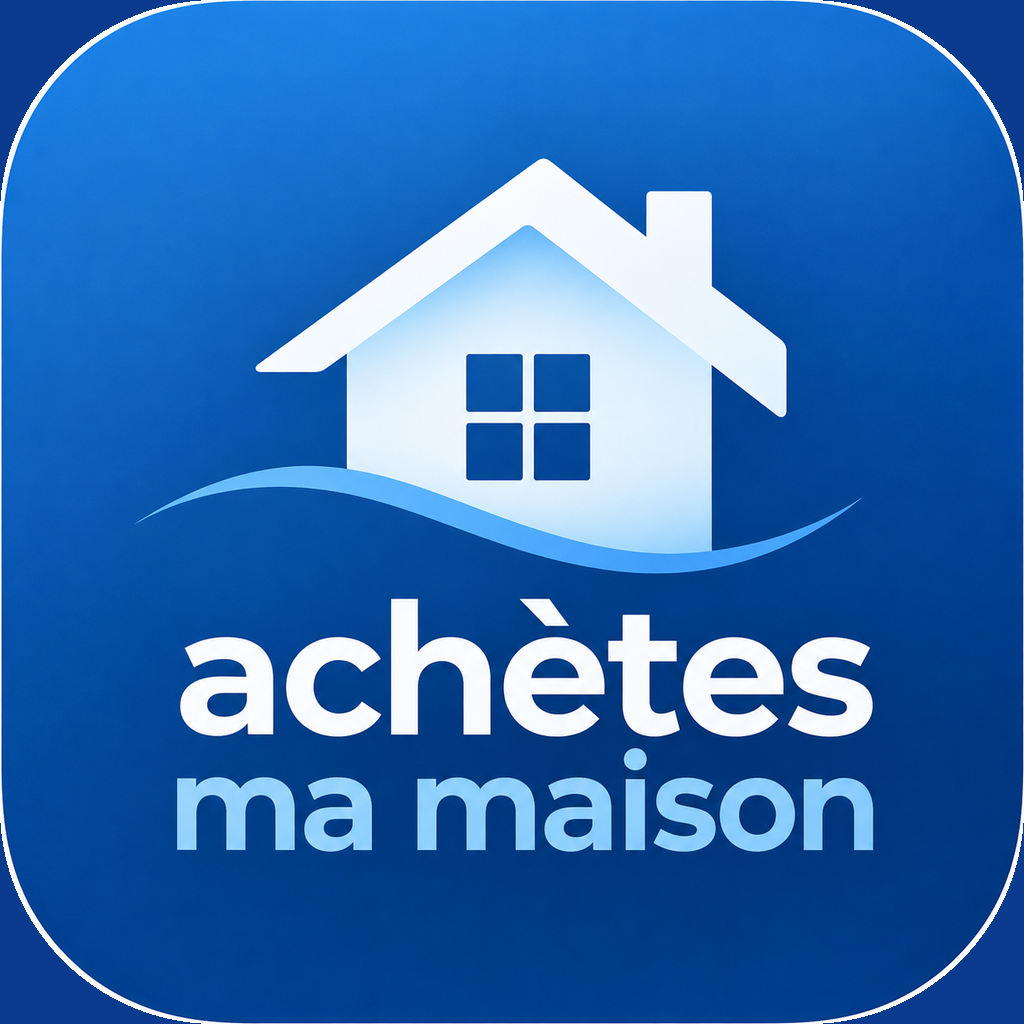
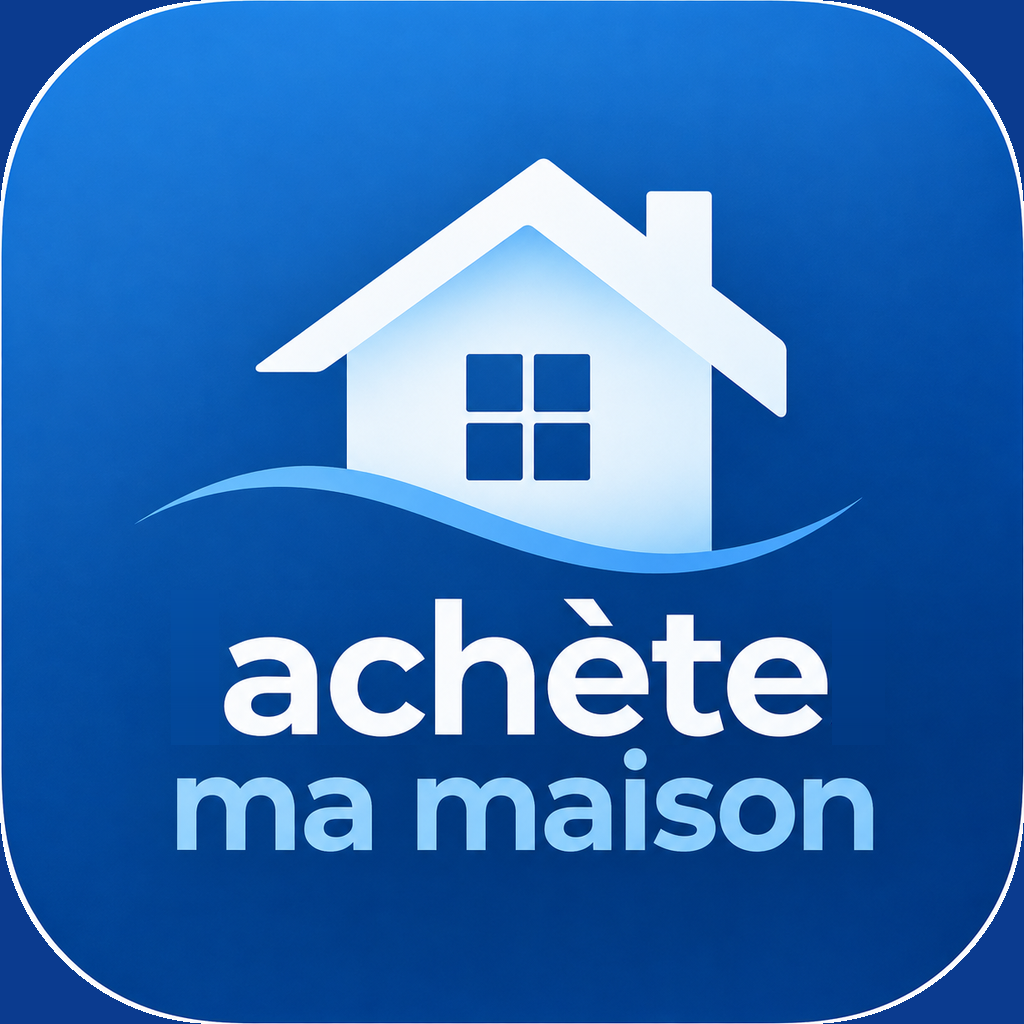
## Renommage en « Achète ma maison » - Tous les textes de l'app et du serveur utilisent désormais **« Achète ma maison »** (nom de l'app, écran d'accueil, inscription, Pack, annonce, confidentialité, PDF, e-mails, nom de l'expéditeur, noms des fichiers exportés). Le sous-titre de l'accueil indique a
- Next Action Items:
  - **Vérification production**: Dis-moi quand le redéploiement est fait, je contrôle que les 97 départements répondent sur le serveur publié
  - **Distances piétonnes**: Ajoute le temps à pied réel vers l'école, la boulangerie et l'arrêt de bus les plus proches
  - **Carte dans le PDF**: Insère l'orthophoto IGN avec la parcelle en tête de la section environnement du rapport
  - **Comparatif avant/après**: Montre un curseur glissant avant/après sur chaque photo retouchée pour que le vendeur mesure le gain

Note :
- Once you deploy your app to production, you can generate iOS and Android builds. Post which, you can publish your app to App/Play store.
- For iOS builds: you need an Apple developer account. Upon logging in, you can generate a build, submit it to TestFlight, and test the app on a real iOS device.
- For Android builds: we provide .APK and .AAB files for your application, which enable you to test your app on a real Android device.
- Your deployed app is also accessible on Expo Go via a QR code on the deployment panel.
- If you make any changes to the code via the agent, redeploy the application and generate new builds to reflect the latest code changes (redeploy comes at no additional cost).

Emergent-Commit-Key: c5ee53f8709132edf46c85c5874ab99fefe8d077cc66d89e8aa4d65a0cbb8654

Changed region(s): [[0.1562, 0.5625, 0.875, 0.7188]]

diff --git a/frontend/app/index.tsx b/frontend/app/index.tsx
@@ -50,7 +50,7 @@ export default function HomeScreen() {
     <View style={styles.screen} testID="home-screen">
       <ScreenHeader
         title="Mes biens"
-        subtitle="Achètes ma maison · Estimations · Centre-Val de Loire"
+        subtitle="Achète ma maison · Estimations · France entière"
         leading={<BrandLogo size={40} wordmark="none" testID="home-logo" />}
         right={
           <View style={{ flexDirection: "row", gap: spacing.sm }}>
@@ -86,7 +86,7 @@ export default function HomeScreen() {
           <Image source={{ uri: EMPTY_IMAGE }} style={styles.emptyImage} contentFit="cover" transition={300} />
           <Text style={styles.emptyTitle}>Aucune estimation pour le moment</Text>
           <Text style={styles.emptyText}>
-            Renseignez l’adresse et les caractéristiques de votre bien : Achètes ma maison calcule une fourchette de valeur à
+            Renseignez l’adresse et les caractéristiques de votre bien : Achète ma maison calcule une fourchette de valeur à
             partir des ventes réelles enregistrées autour de chez vous.
           </Text>
           <PrimaryButton title="Nouvelle estimation" onPress={goNew} testID="home-empty-cta" />

diff --git a/frontend/src/components/ShareReportButton.tsx b/frontend/src/components/ShareReportButton.tsx
@@ -17,7 +17,7 @@ interface Props {
   testID?: string;
 }
 
-export function ShareReportButton({ propertyId, url, label = "Partager le rapport PDF", fileName, dialogTitle = "Partager le rapport Achètes ma maison", testID = "share-report-button" }: Props) {
+export function ShareReportButton({ propertyId, url, label = "Partager le rapport PDF", fileName, dialogTitle = "Partager le rapport Achète ma maison", testID = "share-report-button" }: Props) {
   const styles = useStyles();
   const { colors } = useTheme();
   const [busy, setBusy] = useState(false);
@@ -32,7 +32,7 @@ export function ShareReportButton({ propertyId, url, label = "Partager le rappor
     }
     setBusy(true);
     try {
-      const dest = new File(Paths.cache, fileName ?? `achetesmamaison-${propertyId.slice(-6)}.pdf`);
+      const dest = new File(Paths.cache, fileName ?? `achetemamaison-${propertyId.slice(-6)}.pdf`);
       const file = await File.downloadFileAsync(target, dest, { idempotent: true });
       if (await Sharing.isAvailableAsync()) {
         await Sharing.shareAsync(file.uri, { mimeType: "application/pdf", UTI: "com.adobe.pdf", dialogTitle });

diff --git a/frontend/app/property/[id]/pack.tsx b/frontend/app/property/[id]/pack.tsx
@@ -159,7 +159,7 @@ export default function PackScreen() {
                 {d.photos} photo{d.photos > 1 ? "s" : ""} · {d.retouches_used} retouchée{d.retouches_used > 1 ? "s" : ""}. Les visuels retouchés portent la mention « non contractuel ».
               </Text>
               <ShareReportButton propertyId={id!} url={api.packPdfUrl(id!, style)} label="Générer et partager le PDF"
-                fileName={`achetesmamaison-annonce-${id!.slice(-6)}.pdf`} dialogTitle="Partager l’annonce premium" testID="pack-pdf-button" />
+                fileName={`achetemamaison-annonce-${id!.slice(-6)}.pdf`} dialogTitle="Partager l’annonce premium" testID="pack-pdf-button" />
               <View style={styles.row}>
                 <PrimaryButton title="Photos & retouches" variant="ghost" onPress={() => router.push(`/property/${id}/photos`)} testID="pack-photos-button" style={{ flex: 1 }} />
                 <PrimaryButton title="Rédiger l’annonce" variant="ghost" onPress={() => router.push(`/property/${id}/listing`)} testID="pack-listing-button" style={{ flex: 1 }} />

diff --git a/frontend/app/property/[id]/photos.tsx b/frontend/app/property/[id]/photos.tsx
@@ -97,7 +97,7 @@ export default function PhotosScreen() {
   };
   const setCover = (photoId: string) => reorder.mutate([photoId, ...(photos.data ?? []).map((p) => p.id).filter((x) => x !== photoId)]);
   const retouched = (photos.data ?? []).filter((p) => p.status === "done" && p.retouched_path);
-  const exportName = (index: number, after: boolean) => `achetesmamaison-${id!.slice(-6)}-photo-${index + 1}${after ? "-retouchee" : ""}.jpg`;
+  const exportName = (index: number, after: boolean) => `achetemamaison-${id!.slice(-6)}-photo-${index + 1}${after ? "-retouchee" : ""}.jpg`;
   const exportOrUnlock = (fn: () => void) => (pack.unlocked ? fn() : router.push(`/property/${id}/pack`));
 
   // Sélecteur de fichiers système (Storage Access Framework) : fonctionne sur tout Android, sans autorisation.

diff --git a/frontend/app/sign-up.tsx b/frontend/app/sign-up.tsx
@@ -61,7 +61,7 @@ export default function SignUpScreen() {
       <Field label="Confirmer le mot de passe" testID="signup-confirm" value={confirm} onChangeText={setConfirm} secureTextEntry
         autoComplete="new-password" placeholder="••••••••" error={confirmIssue} returnKeyType="done" onSubmitEditing={submit} />
       <PrimaryButton title="Créer mon compte" onPress={submit} loading={busy} testID="signup-submit" />
-      <Text style={styles.legal}>En créant un compte vous acceptez que vos données soient utilisées uniquement pour le service Achètes ma maison.</Text>
+      <Text style={styles.legal}>En créant un compte vous acceptez que vos données soient utilisées uniquement pour le service Achète ma maison.</Text>
     </AuthShell>
   );
 }

diff --git a/frontend/src/components/TargetPriceCard.tsx b/frontend/src/components/TargetPriceCard.tsx
@@ -80,7 +80,7 @@ export function TargetPriceCard({ propertyId, suggestedValue, estimation }: Prop
       {showForm ? (
         <View style={{ gap: spacing.md }} testID="target-form">
           <Text style={styles.p}>
-            À quel prix souhaitez-vous vendre ? Ce prix sera affiché dans votre annonce et le PDF ; Achètes ma maison le situe par rapport à l’estimation et aux signaux du marché.
+            À quel prix souhaitez-vous vendre ? Ce prix sera affiché dans votre annonce et le PDF ; Achète ma maison le situe par rapport à l’estimation et aux signaux du marché.
           </Text>
           <View style={styles.inputRow}>
             <TextInput

diff --git a/frontend/app/property/[id]/dossier.tsx b/frontend/app/property/[id]/dossier.tsx
@@ -190,7 +190,7 @@ export default function DossierScreen() {
                 propertyId={id!}
                 url={api.notaireUrl(id!)}
                 label="Exporter le dossier (PDF)"
-                fileName={`achetesmamaison-dossier-notaire-${id!.slice(-6)}.pdf`}
+                fileName={`achetemamaison-dossier-notaire-${id!.slice(-6)}.pdf`}
                 dialogTitle="Envoyer le dossier de vente"
                 testID="notaire-export-button"
               />

diff --git a/frontend/app/property/[id]/listing.tsx b/frontend/app/property/[id]/listing.tsx
@@ -82,7 +82,7 @@ export default function ListingScreen() {
     setExportedId(l.id);
     return exporter.shareListing(
       listingText(l),
-      retouched.map((p, i) => ({ uri: api.photoExportUrl(p.id), fileName: `achetesmamaison-${id!.slice(-6)}-photo-${i + 1}-retouchee.jpg` })),
+      retouched.map((p, i) => ({ uri: api.photoExportUrl(p.id), fileName: `achetemamaison-${id!.slice(-6)}-photo-${i + 1}-retouchee.jpg` })),
       `export-${l.id}`,
     );
   };

diff --git a/frontend/src/theme.ts b/frontend/src/theme.ts
@@ -35,7 +35,7 @@ import { Appearance, StyleSheet, useColorScheme } from "react-native";
 
 export type ColorScheme = "light" | "dark";
 
-// Brand palette « Achètes ma maison » : bleu du logo (#1656C9 → #0B3B8F) sur fonds clairs teintés de bleu.
+// Brand palette « Achète ma maison » : bleu du logo (#1656C9 → #0B3B8F) sur fonds clairs teintés de bleu.
 const light = {
   surface: "#F4F7FC",
   onSurface: "#0F1F3D",

diff --git a/frontend/src/components/BrandLogo.tsx b/frontend/src/components/BrandLogo.tsx
@@ -3,7 +3,7 @@ import { Text, View } from "react-native";
 
 import { fonts, makeStyles, radius, spacing } from "@/src/theme";
 
-export const APP_NAME = "Achètes ma maison";
+export const APP_NAME = "Achète ma maison";
 
 interface Props {
   size?: number;

diff --git a/backend/tests/test_iter18_paywall.py b/backend/tests/test_iter18_paywall.py
@@ -2,7 +2,7 @@
 
 Covers:
 - POST /api/auth/login (seed account)
-- Health branding: /api/health.app == "Achètes ma maison"
+- Health branding: /api/health.app == "Achète ma maison"
 - Locked property 6aa3f68d440f04920cdaffde:
     * GET /api/properties/{id}/pack/status -> unlocked=false, free_retouches=0
     * POST /api/properties/{id}/listings -> 402 with detail starting with 'Pack annonce premium requis (49 €)'
@@ -13,7 +13,7 @@ Covers:
 - Regression on unlocked property (if any):
     * GET /api/properties/{id}/pack.pdf -> 200 application/pdf
 - PDF branding (locked property is fine):
-    * GET /api/properties/{id}/report.pdf -> 200, page 1 text contains 'Achètes ma maison · Rapport d'estimation' + at least one image
+    * GET /api/properties/{id}/report.pdf -> 200, page 1 text contains 'Achète ma maison · Rapport d'estimation' + at least one image
     * GET /api/properties/{id}/notaire.pdf -> 200
 """
 from __future__ import annotations
@@ -60,7 +60,7 @@ class TestBranding:
     def test_health_app_name(self):
         r = requests.get(f"{BASE_URL}/api/health", timeout=15)
         assert r.status_code == 200, r.text
-        assert r.json().get("app") == "Achètes ma maison", r.json()
+        assert r.json().get("app") == "Achète ma maison", r.json()
 
 
 # ---------------- Locked property paywall ----------------
@@ -160,7 +160,7 @@ class TestPdfBranding:
         reader = PdfReader(io.BytesIO(pdf_bytes))
         page1 = reader.pages[0]
         text1 = (page1.extract_text() or "").replace("\n", " ")
-        assert "Achètes ma maison" in text1, text1[:400]
+        assert "Achète ma maison" in text1, text1[:400]
         assert "Rapport d’estimation" in text1 or "Rapport d'estimation" in text1, text1[:400]
 
         # Page 1 must contain an image (logo). pypdf exposes .images

diff --git a/backend/server.py b/backend/server.py
@@ -69,7 +69,7 @@ BAN_URL = os.environ["BAN_URL"]
 client = AsyncIOMotorClient(mongo_url)
 db = client[db_name]
 
-app = FastAPI(title="Achètes ma maison API")
+app = FastAPI(title="Achète ma maison API")
 api = APIRouter(prefix="/api")          # routes protégées (connexion requise)
 public = APIRouter(prefix="/api")       # routes publiques
 auth.init(db)
@@ -219,7 +219,7 @@ async def _dvf_refresh_loop() -> None:
 
 @public.get("/health")
 async def health():
-    return {"status": "ok", "app": "Achètes ma maison", "departments": DVF_DEPARTMENTS}
+    return {"status": "ok", "app": "Achète ma maison", "departments": DVF_DEPARTMENTS}
 
 
 @app.get("/health", include_in_schema=False)
@@ -648,7 +648,7 @@ async def export_photo(photo_id: str, version: Literal["retouched", "original"] 
     except storage.StorageError as exc:
         raise HTTPException(status_code=502, detail=str(exc))
     out, mime = await asyncio.to_thread(photo_ai.watermark, data)
-    filename = f"achetesmamaison-{doc['property_id'][-6:]}-{photo_id[-6:]}{'-retouchee' if path != doc['original_path'] else ''}.jpg"
+    filename = f"achetemamaison-{doc['property_id'][-6:]}-{photo_id[-6:]}{'-retouchee' if path != doc['original_path'] else ''}.jpg"
     return Response(content=out, media_type=mime,
                     headers={"Content-Disposition": f'attachment; filename="{filename}"', "Cache-Control": "private, max-age=3600"})
 
